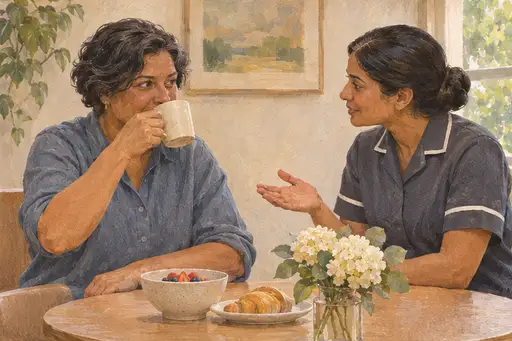
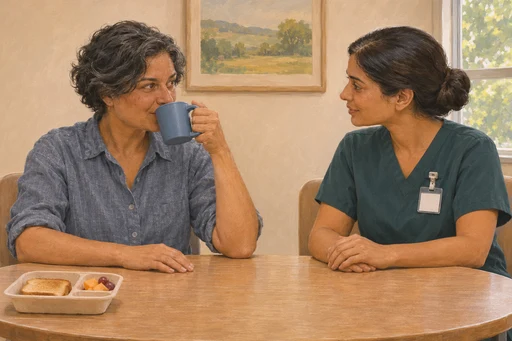
Let learners compare Kit’s forearm before revealing the resident interpretation

diff --git a/tests/smoke/front-door.spec.js b/tests/smoke/front-door.spec.js
@@ -3485,31 +3485,96 @@ test.describe('Interactive readings', () => {
     }
   });
 
-  test('catatonia comparison requires both moments and clears the sample on close', async ({ page }) => {
+  test('catatonia comparison shows Kit in the same frame and reveals each handoff separately', async ({ page }) => {
     const activity = await openActivity(page, 'catatonia.md', 'vp-catatonia', 'How it presents on the unit');
-    const frames = activity.locator('details[data-vp-frame]');
+    const breakfast = activity.locator('#kit-breakfast');
+    const later = activity.locator('#kit-later');
+    const breakfastButton = activity.locator('button[data-kit-moment="breakfast"]');
+    const laterButton = activity.locator('button[data-kit-moment="later"]');
+    const pair = activity.locator('[data-kit-pair]');
     const compare = activity.locator('[data-vp-compare]');
-    await expect(frames).toHaveCount(2);
+    const handoffs = compare.locator('details.vp-handoff');
+    const student = handoffs.first();
+    const resident = handoffs.last();
+    // Measure relative to the activity so keyboard scrolling cannot shift the comparison.
+    const imageRect = frame => frame.locator('img').evaluate(image => {
+      const box = image.getBoundingClientRect();
+      const card = image.closest('#vp-catatonia').getBoundingClientRect();
+      return { x: box.x - card.x, y: box.y - card.y, width: box.width, height: box.height };
+    });
+
+    await expect(breakfast).toBeVisible();
+    await expect(later).toBeHidden();
     await expect(compare).toBeHidden();
-    await toggleWithKeyboard(frames.last());
-    await expect(frames.last().locator('.vp-reply')).toBeVisible();
-    await expect(compare).toBeHidden();
-    await toggleWithKeyboard(frames.first());
+    await expect(pair).toBeHidden();
+    await expect(breakfastButton).toHaveAttribute('aria-pressed', 'true');
+    await expect(breakfast.locator('img')).toHaveAttribute('src', /kit-breakfast\.webp$/);
+    await expect.poll(() => breakfast.locator('img').evaluate(image => image.naturalWidth)).toBeGreaterThan(0);
+    await expect(breakfast.locator('figcaption')).toContainText('The nurse says');
+    await expect(breakfast.locator('figcaption')).toContainText('took a sip');
+    await expect(breakfast.locator('figcaption')).toContainText('The coffee’s good');
+    const firstRect = await imageRect(breakfast);
+    expect(firstRect.width).toBeGreaterThan(0);
+    expect(firstRect.height).toBeGreaterThan(0);
+    await laterButton.press('Enter');
+    await expect(breakfast).toBeHidden();
+    await expect(later).toBeVisible();
+    await expect(laterButton).toHaveAttribute('aria-pressed', 'true');
+    await expect(later.locator('img')).toHaveAttribute('src', /kit-later\.webp$/);
+    await expect.poll(() => later.locator('img').evaluate(image => image.naturalWidth)).toBeGreaterThan(0);
+    await expect(later.locator('figcaption')).toContainText('forearm in the same position');
+    await expect(later.locator('figcaption')).toContainText('no spoken response');
+    const laterRect = await imageRect(later);
+    for (const dimension of ['x', 'y', 'width', 'height']) {
+      expect(laterRect[dimension]).toBeCloseTo(firstRect[dimension], 0);
+    }
     await expect(compare).toBeVisible();
-    const handoff = compare.locator('details').filter({has: page.getByText('Compare one way to call the resident', { exact: true })});
-    const decision = compare.locator('details').filter({has: page.getByText('Resident · What do you decide at the bedside?', { exact: true })});
-    await toggleWithKeyboard(handoff);
-    await expect(handoff.locator('p')).toContainText('nurse saw Kit drink');
-    await expect(handoff.locator('p')).toContainText('I heard no reply');
-    await toggleWithKeyboard(decision);
-    await expect(decision.locator('p')).toContainText('lorazepam challenge');
-    await toggleWithKeyboard(frames.last());
+    await breakfastButton.press('Space');
+    await expect(breakfast).toBeVisible();
+    await expect(later).toBeHidden();
+    await pair.press('Enter');
+    await expect(breakfast).toBeVisible();
+    await expect(later).toBeVisible();
+    await expect(pair).toHaveAttribute('aria-pressed', 'true');
+    const pairedBreakfast = await imageRect(breakfast);
+    const pairedLater = await imageRect(later);
+    expect(pairedLater.width).toBeCloseTo(pairedBreakfast.width, 0);
+    expect(pairedLater.height).toBeCloseTo(pairedBreakfast.height, 0);
+    await pair.press('Enter');
+    await expect(breakfast).toBeVisible();
+    await expect(later).toBeHidden();
+    await expect(pair).toHaveAttribute('aria-pressed', 'false');
+    await expect(handoffs).toHaveCount(2);
+    await expect(student).toHaveJSProperty('open', false);
+    await expect(resident).toHaveJSProperty('open', false);
+
+    // Browser search or printing can open native details without a learner choosing the reveal.
+    await resident.evaluate(details => new Promise(resolve => {
+      details.addEventListener('toggle', resolve, { once: true });
+      details.open = true;
+    }));
+    await expect(resident).not.toContainText('New mutism and posturing');
+    await resident.evaluate(details => { details.open = false; });
+
+    await toggleWithKeyboard(student);
+    await expect(student.locator('p')).toBeVisible();
+    await expect(student.locator('p')).toContainText('nurse saw Kit drink');
+    await expect(student.locator('p')).toContainText('I heard no reply');
+    await expect(resident).toHaveJSProperty('open', false);
+    await toggleWithKeyboard(student);
+    await toggleWithKeyboard(resident);
+    await expect(resident.getByText(/New mutism and posturing/)).toBeVisible();
+    await expect(student).toHaveJSProperty('open', false);
+
+    await activity.locator('[data-kit-reset]').press('Enter');
+    await expect(breakfast).toBeVisible();
+    await expect(later).toBeHidden();
     await expect(compare).toBeHidden();
-    await expect(decision).toHaveJSProperty('open', false);
-    await expect(handoff).toHaveJSProperty('open', false);
-    await toggleWithKeyboard(frames.last());
+    await expect(student).toHaveJSProperty('open', false);
+    await expect(resident).toHaveJSProperty('open', false);
+    await laterButton.press('Enter');
     await expect(compare).toBeVisible();
-    await expect(handoff.locator('p')).toBeHidden();
+    await expect(resident).not.toContainText('New mutism and posturing');
   });
 
   test('medical workup distinguishes copied text, firsthand findings and the opening line', async ({ page }) => {

diff --git a/13_Faculty_Resources/_automation/site_build/frontdoor/fd_bedside_cases.js b/13_Faculty_Resources/_automation/site_build/frontdoor/fd_bedside_cases.js
@@ -388,13 +388,67 @@ function fdMountCatatoniaFrames(body) {
   const caseCard = body.querySelector('#vp-catatonia');
   if (!caseCard || caseCard.dataset.mounted) return;
   caseCard.dataset.mounted = 'true';
-  const frames = Array.from(caseCard.querySelectorAll('[data-vp-frame]'));
-  const compare = caseCard.querySelector('[data-vp-compare]');
-  for (const frame of frames) frame.addEventListener('toggle', () => {
-    const bothOpen = frames.every(item => item.open);
-    compare.hidden = !bothOpen;
-    caseCard.querySelector('[data-vp-compare-hint]').hidden = bothOpen;
-    if (!bothOpen) compare.querySelectorAll('details').forEach(answer => { answer.open = false; });
+  const momentButtons = [...caseCard.querySelectorAll('[data-kit-moment]')];
+  const frames = caseCard.querySelector('#kit-frames');
+  const pair = caseCard.querySelector('[data-kit-pair]');
+  const practice = caseCard.querySelector('[data-vp-compare]');
+  const status = caseCard.querySelector('[role="status"]');
+  const handoffs = practice.querySelectorAll('.vp-handoff');
+  let current = 'breakfast';
+  let viewedLater = false;
+  let paired = false;
+
+  function render() {
+    for (const button of momentButtons) {
+      const selected = button.dataset.kitMoment === current;
+      button.setAttribute('aria-pressed', String(selected && !paired));
+      caseCard.querySelector('#' + button.getAttribute('aria-controls')).hidden = !selected && !paired;
+    }
+    frames.classList.toggle('is-paired', paired);
+    pair.setAttribute('aria-pressed', String(paired));
+    pair.textContent = paired ? 'Show one frame' : 'Compare both frames';
+    caseCard.querySelector('.kit-actions').hidden = practice.hidden = !viewedLater;
+    caseCard.querySelector('[data-vp-compare-hint]').hidden = viewedLater;
+  }
+
+  for (const button of momentButtons) button.addEventListener('click', () => {
+    current = button.dataset.kitMoment;
+    if (current === 'later') viewedLater = true;
+    paired = false;
+    render();
+    status.textContent = current === 'later' ? 'Showing 09:00. Handoff practice is available below.' : 'Showing breakfast.';
+  });
+
+  pair.addEventListener('click', () => {
+    if (!viewedLater) return;
+    paired = !paired;
+    render();
+    status.textContent = paired ? 'Showing both moments.' : 'Showing one moment.';
+  });
+
+  // The reader opens details for search and printing. Only the learner's own reveal supplies the answer.
+  for (const handoff of handoffs) {
+    const answer = handoff.querySelector('p');
+    const sample = answer.textContent;
+    answer.textContent = '';
+    handoff.querySelector('summary').addEventListener('click', event => {
+      event.preventDefault();
+      if (!viewedLater) return;
+      const reveal = !(handoff.open && answer.textContent);
+      answer.textContent = reveal ? sample : '';
+      handoff.open = reveal;
+    });
+  }
+  caseCard.querySelector('[data-kit-reset]').addEventListener('click', () => {
+    current = 'breakfast';
+    viewedLater = paired = false;
+    for (const handoff of handoffs) {
+      handoff.open = false;
+      handoff.querySelector('p').textContent = '';
+    }
+    render();
+    momentButtons[0].focus();
+    status.textContent = 'Practice restarted at breakfast.';
   });
 }
 

diff --git a/13_Faculty_Resources/_automation/site_build/frontdoor/frontdoor.css b/13_Faculty_Resources/_automation/site_build/frontdoor/frontdoor.css
@@ -3684,11 +3684,18 @@ html:has(.fd-reader--tool){scroll-padding-top:112px}
 .vp-room-controls button[aria-pressed=true] span{background:var(--fd-teal-deep);color:var(--fd-surface)}
 .vp-room-controls .vp-changed,.vp-room-controls [aria-pressed=true] .vp-before{display:none}
 .vp-room-controls [aria-pressed=true] .vp-changed{display:inline}
-.vp-frames summary img{border-radius:var(--fd-radius-xs);margin-bottom:.6em}
-.vp-frames .vp-card>summary,.vp-trends .vp-card>summary{display:block;position:relative}
-.vp-frames summary::after,.vp-trends summary::after{content:"+";position:absolute;inset:auto .4em .35em auto;font-family:monospace;color:var(--fd-teal-deep)}
-.vp-frames [open]>summary::after,.vp-trends [open]>summary::after{content:"−"}
-.vp-frames .vp-card>summary strong{display:block;padding-right:1em}
+#vp-catatonia .kit-switch{display:grid;grid-template-columns:1fr 1fr;gap:var(--fd-space-2);padding:var(--fd-space-2);border-radius:var(--fd-radius-xs);background:var(--fd-surface-warm)}
+#vp-catatonia .kit-switch button{text-align:center;font-variant-numeric:tabular-nums}
+#vp-catatonia .vp-frames{display:grid;gap:var(--fd-space-5)}
+#vp-catatonia .vp-frames figure{overflow:hidden}
+#vp-catatonia figcaption{display:block}
+#vp-catatonia .kit-actions{display:flex;flex-wrap:wrap;gap:var(--fd-space-4)}
+@container bedside (min-width:32em){
+  #vp-catatonia .vp-frames.is-paired{grid-template-columns:repeat(2,minmax(0,1fr));align-items:start}
+}
+.vp-trends .vp-card>summary{display:block;position:relative}
+.vp-trends summary::after{content:"+";position:absolute;inset:auto .4em .35em auto;font-family:monospace;color:var(--fd-teal-deep)}
+.vp-trends [open]>summary::after{content:"−"}
 .vp-trends .vp-card>summary{padding-bottom:var(--fd-space-8)}
 .vp-plot{display:block;width:100%;height:auto;margin:var(--fd-space-3) auto var(--fd-space-1)}
 .vp-gridline,.vp-trace{fill:none;stroke:var(--fd-line);stroke-width:1}

diff --git a/04_Acute_and_Safety/Catatonia/catatonia_inpatient_teaching.md b/04_Acute_and_Safety/Catatonia/catatonia_inpatient_teaching.md
@@ -15,14 +15,18 @@
 <section class="bedside-case visual-practice" id="vp-catatonia" aria-labelledby="vp-catatonia-title">
 <header><p class="case-kicker">Catatonia · Fictional morning shift</p>
 <h3 id="vp-catatonia-title">What did you actually see?</h3>
-<p>A handoff describes Kit as “withdrawn today.” The nurse is already asking the resident to assess this change. Open each moment to hear what someone at the table observed.</p></header>
-<div class="vp-options vp-frames">
-<details class="vp-card" data-vp-frame><summary><img src="illustrations/kit-breakfast.webp" width="512" height="341" alt="Kit lifts a mug toward their mouth and turns toward the nurse."><span class="vp-time">08:10 · Breakfast</span><strong>At the table with Kit</strong></summary>
-<p class="vp-reply">The nurse says, “Kit lifted the mug, took a sip and set it down. When I asked about breakfast they said, ‘The coffee’s good.’”</p></details>
-<details class="vp-card" data-vp-frame><summary><img src="illustrations/kit-later.webp" width="512" height="341" alt="The mug is on the table. Kit looks straight ahead with their forearm held out."><span class="vp-time">09:00 · Same table</span><strong>Back at Kit’s side</strong></summary>
-<p class="vp-reply">You see Kit hold their forearm in the same position throughout your conversation with the nurse. You greet Kit and ask how they feel. You hear no spoken response.</p></details>
+<p>A handoff describes Kit as “withdrawn today.” The nurse is already asking the resident to assess this change. Compare Kit’s forearm at breakfast and later at the same table.</p></header>
+<div class="kit-switch" role="group" aria-label="Choose a moment">
+<button type="button" data-kit-moment="breakfast" aria-pressed="true" aria-controls="kit-breakfast"><strong>08:10</strong> Breakfast</button>
+<button type="button" data-kit-moment="later" aria-pressed="false" aria-controls="kit-later"><strong>09:00</strong> Same table</button>
 </div>
-<p data-vp-compare-hint>Open both moments to practice calling the resident.</p>
+<div class="vp-frames" id="kit-frames">
+<figure id="kit-breakfast" class="vp-card"><img src="illustrations/kit-breakfast.webp" width="512" height="341" alt="Kit lifts a mug toward their mouth and turns toward the nurse."><figcaption class="vp-reply"><strong class="vp-time">08:10 · At the table with Kit</strong>The nurse says, “Kit lifted the mug, took a sip and set it down. When I asked about breakfast they said, ‘The coffee’s good.’”</figcaption></figure>
+<figure id="kit-later" class="vp-card" hidden><img src="illustrations/kit-later.webp" width="512" height="341" alt="The mug is on the table. Kit looks straight ahead with their forearm held out."><figcaption class="vp-reply"><strong class="vp-time">09:00 · Back at Kit’s side</strong>You see Kit hold their forearm in the same position throughout your conversation with the nurse. You greet Kit and ask how they feel. You hear no spoken response.</figcaption></figure>
+</div>
+<p data-vp-compare-hint>View 09:00 to practice calling the resident.</p>
+<div class="kit-actions" hidden><button type="button" data-kit-pair aria-pressed="false" aria-controls="kit-frames">Compare both frames</button><button type="button" data-kit-reset>Start over</button></div>
+<p class="fd-visually-hidden" role="status"></p>
 <div class="vp-result" data-vp-compare hidden><h4>Replace “withdrawn” in your call</h4><p>Describe one change in movement and one in speech. What needs a bedside assessment now?</p>
 <details class="vp-handoff"><summary>Compare one way to call the resident</summary><p>“The nurse saw Kit drink and heard them speak at breakfast. Now I see them holding their forearm out, and I heard no reply when I spoke to them. Can you assess Kit with us now for possible catatonia and other causes of this acute change? I’ll help the nurse get current vitals.”</p></details>
     <details class="vp-handoff"><summary>Resident · What do you decide at the bedside?</summary><p>“New mutism and posturing: I’ll score the Bush-Francis screen now and check vitals. If it is positive, I’d give a lorazepam challenge, which tests the diagnosis and starts treatment, and I’d avoid antipsychotics until catatonia is excluded or has responded. If Kit is deteriorating or does not respond, I’d raise ECT with the team without delay.”</p></details></div>

diff --git a/docs/superpowers/specs/front-door-handoff/CLASS-INVENTORY.md b/docs/superpowers/specs/front-door-handoff/CLASS-INVENTORY.md
@@ -968,7 +968,7 @@ Resources opened from the ordinary navigation retain their tab return control.
 | `#night-signout` | Sam’s sign-out slip shows the details selected by the learner. The receiving resident asks about one missing detail or reads back the complete plan. |
 | `#quieter-on-unit` | The two-row chart compares the same observation across shifts. The handoff uses the patient’s call and any additional observations the learner opened. |
 | `#coach-line` | Select a transcript and a student line, invite self-assessment, then rehearse feedback and a next attempt. The transcript and coaching panel stack on narrow screens. |
-| `.visual-practice` | In-reading room choices, paired observation frames, evidence cards, parent accounts and selectable trend charts. Named disclosures keep each answer with its source. The two catatonia frames open independently so learners can compare both observations. |
+| `.visual-practice` | In-reading room choices, paired observation frames, evidence cards, parent accounts and selectable trend charts. Named disclosures keep each answer with its source. Kit’s time buttons switch between two same-angle views. After seeing both, learners can show the frames together and open the sample call and resident interpretation separately. |
 | `.bedside-case` | Paired bedside and rounds exercises in Collateral, Adjustment Disorders, ECT and Somatic Symptom Disorders. Choices update the observation log, symptom timeline, patient-specific counseling or return visit card. Each worked handoff uses the current choices and opens on request. |
 | `.al-case` | Neurodevelopmental Disorders. The conversation in `#alex-lunch` unlocks the handoff edit in `#al-res`. The learner opens the worked handoff and its interpretation after identifying the unsupported appetite claim. Changing Alex’s reply clears both. |
 | `.aw-case` | Psychotic Disorders. In `#ari-weeks`, the two rows share an eight-week scale and the learner fills weeks 4–6 from Ari’s reply. A matching mark opens the handoff in `#aw-handoff`. Its disclosure combines that history with the selected record. The case clears the previous sentence when the reply, mark or record changes. |
